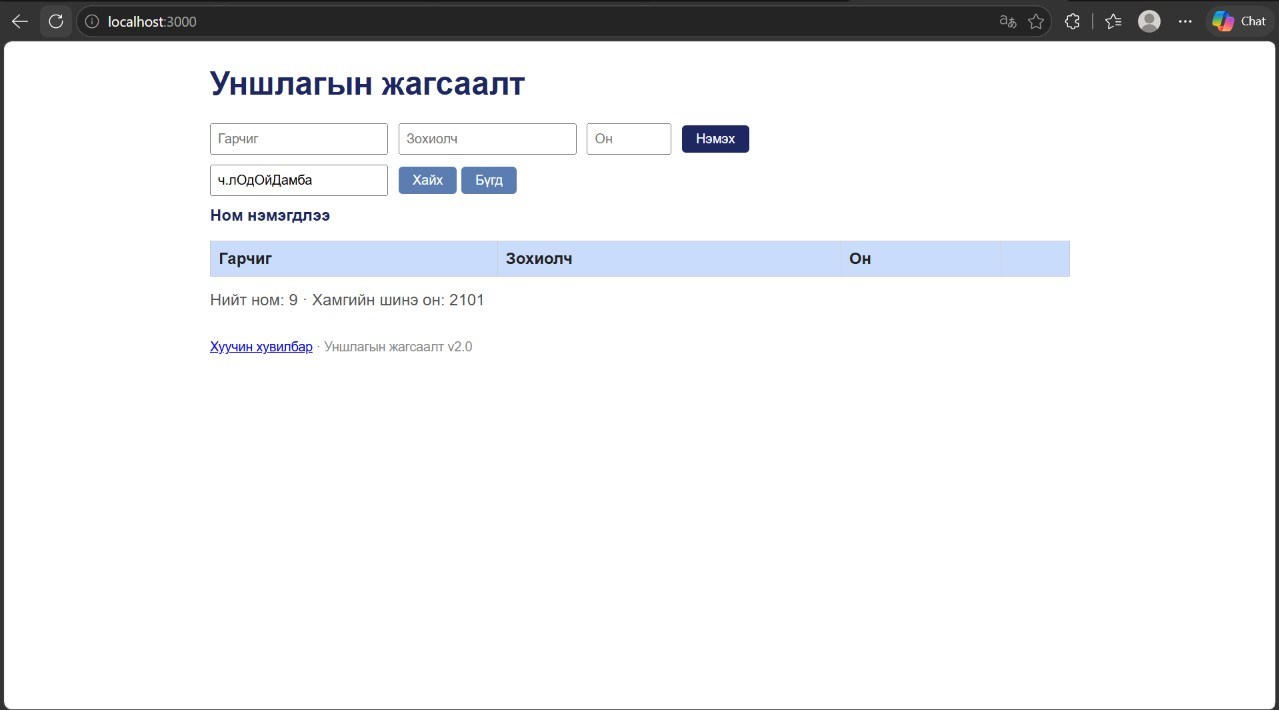
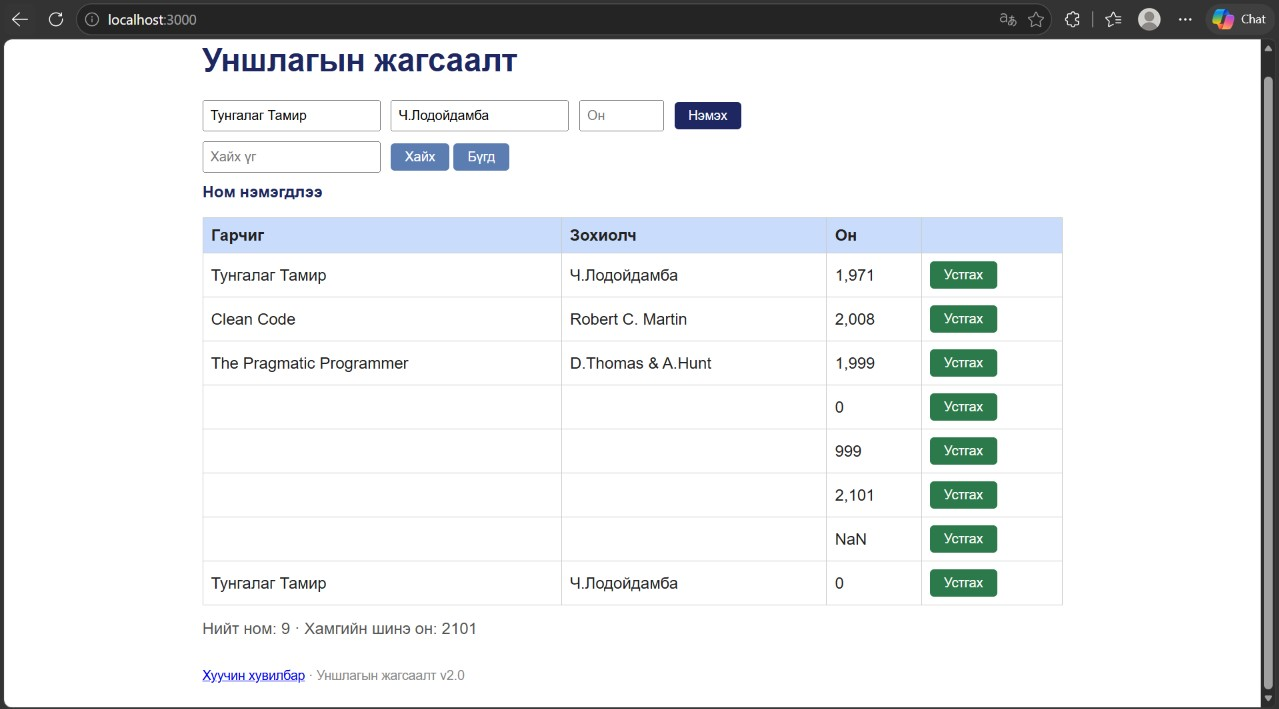
bug reports and screenshots нэмлээ

diff --git a/bugs/bug-05.md b/bugs/bug-05.md
@@ -1,0 +1,22 @@
+# BUG-05: Оны шалгалт байхгүй: 999, 2101, «abc» хүлээн авч, «abc» нь «NaN» болдог
+
+Орчин: Уншлагын жагсаалт v2.0, Microsoft Edge 155.0.4283.60 (Official build) (64-bit), Windows 11, 2026-10-17
+
+Урьдчилсан нөхцөл: node app.js-ийг шинээр асаасан (анхны 3 ном)
+
+## Дахин гаргах алхам
+
+1. `node app.js`-ийг шинээр асааж http://localhost:3000 нээ.
+2. Гарчиг `Test`, Зохиолч `Tester`, Он `999` бич, «Нэмэx» дар.
+3. Гарчиг `Test`, Зохиолч `Tester2`, Он `2101` бич, «Нэмэx» дар.
+4. Гарчиг `Test`, Зохиолч `Tester3`, Он `abc` бич, «Нэмэx» дар.
+
+Хүлээгдэж байсан: Спецификац: «Он нь 1000-2100 хоорондох бүхэл тоо.» Тэр хүрээнээс гадуурх болон тоо биш утга татгалзагдах ёстой.
+
+Бодит үр дүн: Гурван мөр бүгд нэмэгдэнэ. Онууд нь `999`, `2,101`, `NaN` гэж харагдана. «Хамгийн шинэ он» нь `2101` болно.
+
+Ноцтой байдал: Major. Буруу өгөгдөл хүлээн авч, «NaN» гэх мэт утгагүй утга харуулдаг.
+
+Хавсралт: ![BUG-05](../screenshots/bug-05.jpg)
+
+Олдсон аялал: Couch Potato (хязгаарын болон буруу утгууд)

diff --git a/bugs/bug-02.md b/bugs/bug-02.md
@@ -1,0 +1,21 @@
+# BUG-02: Бүх талбар хоосон байхад «Нэмэx» дарахад ном нэмэгдэж «Ном нэмэгдлээ» гэж харагддаг
+
+Орчин: Уншлагын жагсаалт v2.0, Microsoft Edge 155.0.4283.60 (Official build) (64-bit), Windows 11, 2026-10-17
+
+Урьдчилсан нөхцөл: node app.js-ийг шинээр асаасан (анхны 3 ном)
+
+## Дахин гаргах алхам
+
+1. `node app.js`-ийг шинээр асааж http://localhost:3000 нээ.
+2. Гарчиг, Зохиолч, Он талбарыг хоосон орхи.
+3. «Нэмэx» товчийг дар.
+
+Хүлээгдэж байсан: Спецификац: «Гарчиг, Зохиолч, Он гурван талбар бүгд заавал бөглөгдсөн байх ёстой; дутуу бол ном нэмэгдэхгүй, ойлгомжтой алдааны мессеж харагдана.»
+
+Бодит үр дүн: Хүснэгтэд шинэ хоосон мөр нэмэгдэж, Он баганад `0` харагдана. Мессеж «Ном нэмэгдлээ». Алдааны мессеж байхгүй.
+
+Ноцтой байдал: Major. Үндсэн шалгалт (заавал бөглөх) байхгүй тул хоосон бичлэг хуримтлагдана.
+
+Хавсралт: ![BUG-02](../screenshots/bug-02.jpg)
+
+Олдсон аялал: Couch Potato (хоосон оролт)

diff --git a/bugs/bug-06.md b/bugs/bug-06.md
@@ -1,0 +1,21 @@
+# BUG-06: Ижил гарчиг, зохиолчтой номыг давхардуулан нэмэх боломжтой
+
+Орчин: Уншлагын жагсаалт v2.0, Microsoft Edge 155.0.4283.60 (Official build) (64-bit), Windows 11, 2026-10-17
+
+Урьдчилсан нөхцөл: node app.js-ийг шинээр асаасан (анхны 3 ном)
+
+## Дахин гаргах алхам
+
+1. `node app.js`-ийг шинээр асааж http://localhost:3000 нээ.
+2. Гарчиг `Тунгалаг Тамир`, Зохиолч `Ч.Лодойдамба`, Он `1971` бич, «Нэмэx» дар. Хүснэгтэд ижил ном аль хэдийн 1 удаа байгаа.
+3. Хүснэгтийг хар.
+
+Хүлээгдэж байсан: Спецификац: «Ижил гарчиг, зохиолчтой ном давхардуулж нэмэгдэхгүй.»
+
+Бодит үр дүн: «Тунгалаг Тамир / Ч.Лодойдамба» мөр хоёр удаа харагдана, мессеж «Ном нэмэгдлээ».
+
+Ноцтой байдал: Major. Өгөгдлийн бүрэн бүтэн байдал алдагдаж, жагсаалт давхардсан бичлэгээр дүүрнэ.
+
+Хавсралт: ![BUG-06](../screenshots/bug-06.jpg)
+
+Олдсон аялал: Couch Potato (давхардсан өгөгдөл)

diff --git a/bugs/bug-01.md b/bugs/bug-01.md
@@ -1,0 +1,22 @@
+# BUG-01: POST /api/books нь буруу JSON биетэй хүсэлтэд 400 биш 200 OK буцаадаг
+
+Орчин: Уншлагын жагсаалт v2.0, Microsoft Edge 155.0.4283.60 (Official build) (64-bit), Windows 11, 2026-10-17 (API: curl.exe)
+
+Урьдчилсан нөхцөл: node app.js-ийг шинээр асаасан (анхны 3 ном)
+
+## Дахин гаргах алхам
+
+1. `node app.js`-ийг шинээр асаа.
+2. PowerShell дээр ажиллуул:
+   `curl.exe -si -X POST localhost:3000/api/books -d "буруу оролт"`
+3. Хариуны статусын мөр болон биеийг хар.
+
+Хүлээгдэж байсан: Спецификац: «API: буруу JSON биетэй POST хүсэлтэд 400 алдаа буцаана.» Тиймээс `HTTP/1.1 400 ...` статус.
+
+Бодит үр дүн: `HTTP/1.1 200 OK`, бие нь `{"result":"OK"}`. Хүсэлт буруу байсан ч амжилттай гэж мэдэгддэг.
+
+Ноцтой байдал: Major. Дуудагч (клиент) өгөгдөл хадгалагдсан гэж андуурч болно, мөн алдааг илрүүлэх боломжгүй.
+
+Хавсралт: evidence/bug-01-curl.txt
+
+Олдсон аялал: Saboteur (API түвшний довтолгоо)

diff --git a/bugs/bug-03.md b/bugs/bug-03.md
@@ -1,0 +1,20 @@
+# BUG-03: Хүснэгтэд он тоо таслалтай харагддаг (1971 → 1,971)
+
+Орчин: Уншлагын жагсаалт v2.0, Microsoft Edge 155.0.4283.60 (Official build) (64-bit), Windows 11, 2026-10-17
+
+Урьдчилсан нөхцөл: node app.js-ийг шинээр асаасан (анхны 3 ном)
+
+## Дахин гаргах алхам
+
+1. `node app.js`-ийг шинээр асааж http://localhost:3000 нээ.
+2. Хүснэгтийн «Он» баганыг хар.
+
+Хүлээгдэж байсан: Спецификац: «Он ... хүснэгтэд энгийн тоогоор (жишээ нь 1999) харагдана.»
+
+Бодит үр дүн: Он `1,971`, `2,008`, `1,999` гэж мянгатын таслалтай харагдана.
+
+Ноцтой байдал: Minor. Өгөгдөл зөв хадгалагдсан, харин харагдац нь оныг тоо хэмжээ мэт харуулж, ойлгомжгүй болгоно.
+
+Хавсралт: ![BUG-03](../screenshots/bug-03.jpg)
+
+Олдсон аялал: Couch Potato (оролт, гаралтыг спецификацтай тулгах)
